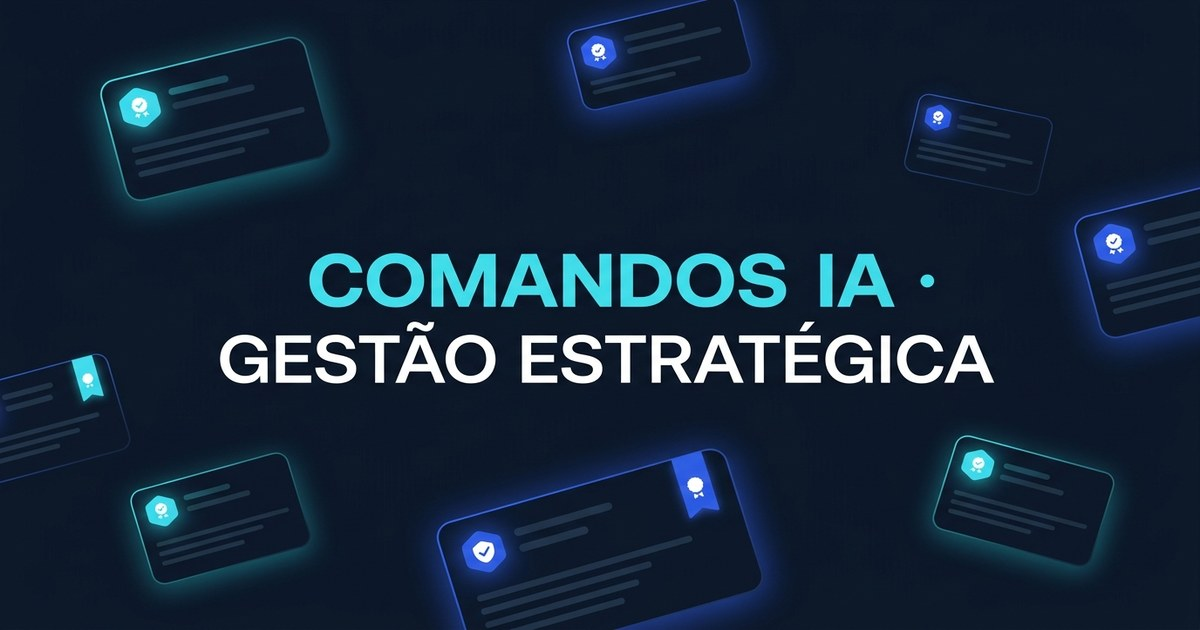
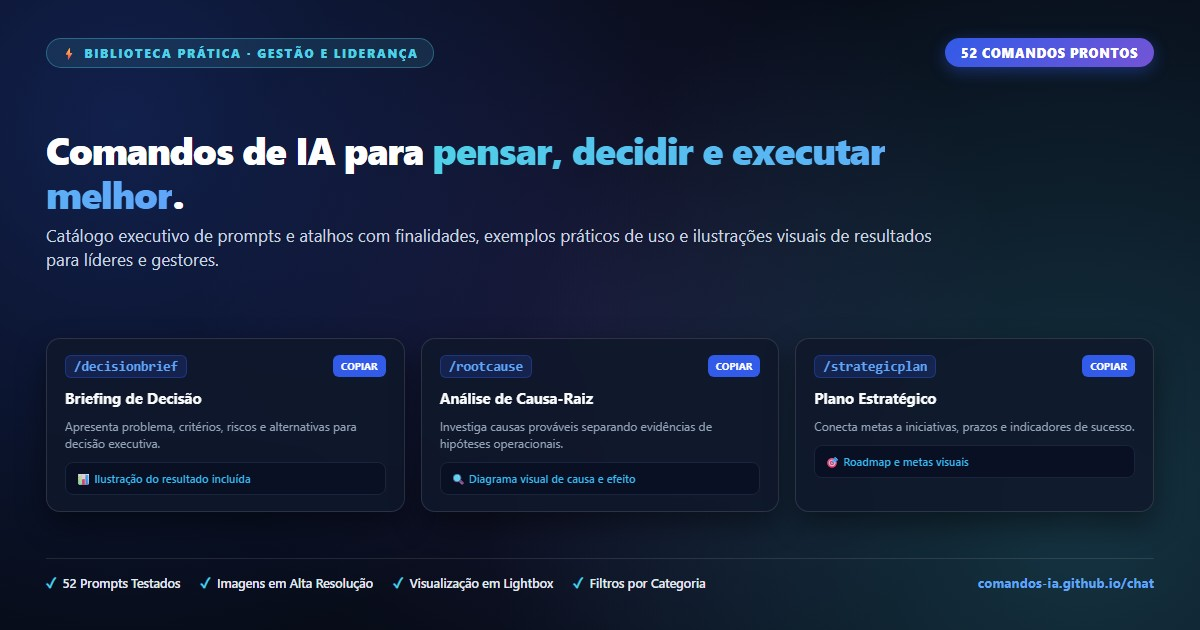
Corrige tags Open Graph com URL absoluta do GitHub Pages, remove botao da toolbar e gera novo card com amostra real dos comandos

diff --git a/index.html b/index.html
@@ -1,19 +1,20 @@
 <!doctype html>
-<html lang="pt-BR">
+<html lang="pt-BR" prefix="og: http://ogp.me/ns#">
 <head>
 <meta charset="utf-8">
 <meta name="viewport" content="width=device-width, initial-scale=1">
 <title>Biblioteca de Comandos de Gestão | Comandos IA</title>
-<meta name="description" content="Biblioteca prática de comandos de IA para líderes e gestores. Modelos prontos para análise, tomada de decisão, gestão de pessoas e execução estratégica.">
+<meta name="description" content="52 comandos práticos de IA para líderes e gestores. Modelos prontos para análise, tomada de decisão, gestão de pessoas e execução estratégica.">
 <meta name="theme-color" content="#101826">
 
 <!-- Open Graph / WhatsApp / Facebook / LinkedIn -->
 <meta property="og:type" content="website">
+<meta property="og:url" content="https://comandos-ia.github.io/chat/">
 <meta property="og:site_name" content="Biblioteca de Comandos de Gestão">
 <meta property="og:title" content="Biblioteca de Comandos de Gestão | Comandos IA">
-<meta property="og:description" content="Comandos práticos de IA para pensar, decidir e executar melhor. Exemplos reais, fluxos de decisão e modelos para liderança.">
-<meta property="og:image" content="imagens/og-preview.jpg">
-<meta property="og:image:secure_url" content="imagens/og-preview.jpg">
+<meta property="og:description" content="52 comandos práticos de IA para pensar, decidir e executar melhor. Exemplos reais, fluxos de decisão e modelos para liderança.">
+<meta property="og:image" content="https://comandos-ia.github.io/chat/imagens/og-preview.jpg">
+<meta property="og:image:secure_url" content="https://comandos-ia.github.io/chat/imagens/og-preview.jpg">
 <meta property="og:image:type" content="image/jpeg">
 <meta property="og:image:width" content="1200">
 <meta property="og:image:height" content="630">
@@ -22,16 +23,17 @@
 
 <!-- Twitter / X Cards -->
 <meta name="twitter:card" content="summary_large_image">
+<meta name="twitter:url" content="https://comandos-ia.github.io/chat/">
 <meta name="twitter:title" content="Biblioteca de Comandos de Gestão | Comandos IA">
-<meta name="twitter:description" content="Comandos práticos de IA para pensar, decidir e executar melhor. Exemplos reais, fluxos de decisão e modelos para liderança.">
-<meta name="twitter:image" content="imagens/og-preview.jpg">
-<link rel="image_src" href="imagens/og-preview.jpg">
+<meta name="twitter:description" content="52 comandos práticos de IA para pensar, decidir e executar melhor. Exemplos reais, fluxos de decisão e modelos para liderança.">
+<meta name="twitter:image" content="https://comandos-ia.github.io/chat/imagens/og-preview.jpg">
+<link rel="image_src" href="https://comandos-ia.github.io/chat/imagens/og-preview.jpg">
 <style>
 :root{--bg:#f4f6fa;--surface:#fff;--ink:#172033;--muted:#65718a;--line:#e2e7f0;--navy:#101826;--blue:#315be8;--cyan:#4fd1e8;--purple:#7454d6;--soft:#eef2ff;--shadow:0 8px 30px rgba(21,32,57,.06)}
 *{box-sizing:border-box}html{scroll-behavior:smooth}body{margin:0;background:var(--bg);color:var(--ink);font:15px/1.55 Inter,ui-sans-serif,system-ui,-apple-system,"Segoe UI",sans-serif}
 header{background:linear-gradient(120deg,#101826,#202d4b 70%,#30346a);color:#fff;padding:46px 22px 36px}
 .wrap{max-width:1180px;margin:auto}.eyebrow{text-transform:uppercase;letter-spacing:.16em;font-size:11px;font-weight:800;color:var(--cyan)}h1{font-size:clamp(30px,4vw,46px);line-height:1.08;letter-spacing:-.04em;margin:12px 0;max-width:760px}header p{max-width:700px;color:#d4dbea;margin:0;font-size:16px}.stats{display:flex;gap:12px;flex-wrap:wrap;margin-top:25px}.stat{border:1px solid #ffffff24;background:#ffffff0d;border-radius:12px;padding:10px 14px;min-width:130px}.stat strong{display:block;font-size:21px}.stat span{font-size:12px;color:#c8d1e4}
-main{max-width:1180px;margin:0 auto;padding:24px 22px 60px}.toolbar{display:grid;grid-template-columns:minmax(200px,1fr) 220px auto auto;gap:12px;position:sticky;top:0;z-index:5;background:var(--bg);padding:12px 0 16px}.field{width:100%;padding:12px 14px;border:1px solid var(--line);border-radius:11px;background:white;color:var(--ink);font:inherit;outline:none}.field:focus{border-color:var(--blue);box-shadow:0 0 0 3px #315be81c}.btn{border:0;border-radius:10px;padding:11px 15px;font:600 13px inherit;cursor:pointer;transition:.18s}.btn-primary{background:var(--blue);color:white}.btn-primary:hover{background:#2449cb}.btn-quiet{background:#edf0f7;color:#25304a}.btn-whatsapp{background:#128c7e;color:white;display:inline-flex;align-items:center;justify-content:center;gap:6px}.btn-whatsapp:hover{background:#075e54}.btn:focus-visible{outline:3px solid #4fd1e8;outline-offset:2px}
+main{max-width:1180px;margin:0 auto;padding:24px 22px 60px}.toolbar{display:grid;grid-template-columns:minmax(220px,1fr) 250px auto;gap:12px;position:sticky;top:0;z-index:5;background:var(--bg);padding:12px 0 16px}.field{width:100%;padding:12px 14px;border:1px solid var(--line);border-radius:11px;background:white;color:var(--ink);font:inherit;outline:none}.field:focus{border-color:var(--blue);box-shadow:0 0 0 3px #315be81c}.btn{border:0;border-radius:10px;padding:11px 15px;font:600 13px inherit;cursor:pointer;transition:.18s}.btn-primary{background:var(--blue);color:white}.btn-primary:hover{background:#2449cb}.btn-quiet{background:#edf0f7;color:#25304a}.btn:focus-visible{outline:3px solid #4fd1e8;outline-offset:2px}
 .category-nav{display:flex;gap:8px;flex-wrap:wrap;margin:2px 0 26px}.chip{border:1px solid var(--line);background:#fff;color:#4b5872;border-radius:999px;padding:8px 12px;font-size:12px;cursor:pointer}.chip.active,.chip:hover{background:var(--navy);color:white;border-color:var(--navy)}
 .section{margin:30px 0 38px;scroll-margin-top:100px}.section-head{display:flex;align-items:flex-end;justify-content:space-between;gap:18px;margin-bottom:15px}.section-head h2{font-size:23px;letter-spacing:-.025em;margin:0}.section-head p{color:var(--muted);margin:4px 0 0}.count{font-size:12px;color:var(--muted);white-space:nowrap}
 .grid{display:grid;grid-template-columns:repeat(3,minmax(0,1fr));gap:15px}.card{background:var(--surface);border:1px solid var(--line);border-radius:16px;overflow:hidden;box-shadow:var(--shadow);display:flex;flex-direction:column;min-width:0}.card-body{padding:17px 17px 14px;display:flex;flex-direction:column;gap:12px;flex:1}.cmdline{display:flex;align-items:flex-start;justify-content:space-between;gap:8px}.command{font:700 14px/1.35 ui-monospace,SFMono-Regular,Menlo,Consolas,monospace;color:#2e45a0;overflow-wrap:anywhere}.card h3{font-size:16px;line-height:1.25;margin:0;letter-spacing:-.01em}.label{font-size:10px;letter-spacing:.12em;text-transform:uppercase;color:#78839a;font-weight:800}.purpose,.example{margin:0;color:#4c5870;font-size:13px}.example-box{background:#f7f8fc;border:1px solid #e9edf5;border-radius:10px;padding:11px}.image-slot{margin:0 17px 17px;border:1.5px dashed #c7cede;border-radius:12px;background:linear-gradient(135deg,#fafbff,#f1f4fa);min-height:150px;display:flex;align-items:center;justify-content:center;text-align:center;padding:16px;position:relative;overflow:hidden;transition:all .2s ease}.image-slot img{width:100%;height:100%;max-height:220px;object-fit:contain;display:none}.image-slot.has-image{padding:0;border:1px solid #1e293b;background:#0b1120;cursor:zoom-in}.image-slot.has-image img{display:block;width:100%;height:auto;aspect-ratio:16/9;object-fit:cover;cursor:zoom-in;transition:transform .2s ease}.image-slot.has-image img:hover{transform:scale(1.02)}.image-slot.has-image::after{content:'🔍 Clique para ampliar';position:absolute;bottom:8px;right:8px;background:rgba(15,23,42,.82);backdrop-filter:blur(4px);color:#fff;font-size:11px;font-weight:600;padding:4px 9px;border-radius:6px;opacity:0;pointer-events:none;transition:opacity .2s ease,transform .2s ease;transform:translateY(4px)}.image-slot.has-image:hover::after{opacity:1;transform:translateY(0)}.image-slot.has-image .placeholder{display:none}.placeholder{max-width:230px;color:#7c879e;font-size:12px}.placeholder .icon{font-size:25px;display:block;color:#8b9ac2;margin-bottom:6px}.small-btn{font-size:11px;padding:8px 10px;border-radius:8px}.copy-status{font-size:11px;color:#15803d;align-self:center;min-height:16px}.empty{padding:38px;text-align:center;background:#fff;border:1px dashed var(--line);border-radius:14px;color:var(--muted);display:none}.note{margin-top:30px;padding:15px 17px;border-radius:12px;background:#fff;border:1px solid var(--line);font-size:12px;color:var(--muted)}footer{text-align:center;color:#8b94a7;font-size:12px;padding:25px}
@@ -76,11 +78,7 @@ main{max-width:1180px;margin:0 auto;padding:24px 22px 60px}.toolbar{display:grid
 <div class="toolbar">
 <input id="search" class="field" type="search" placeholder="Pesquisar comando, finalidade ou exemplo…" aria-label="Pesquisar comandos">
 <select id="categorySelect" class="field" aria-label="Filtrar por categoria"><option value="">Todas as categorias</option></select>
-<button id="shareBtn" class="btn btn-whatsapp" type="button" title="Compartilhar pelo WhatsApp">
-  <svg width="15" height="15" viewBox="0 0 24 24" fill="currentColor"><path d="M.057 24l1.687-6.163c-1.041-1.804-1.588-3.849-1.587-5.946.003-6.556 5.338-11.891 11.893-11.891 3.181.001 6.167 1.24 8.413 3.488 2.245 2.248 3.481 5.236 3.48 8.414-.003 6.557-5.338 11.892-11.893 11.892-1.99-.001-3.951-.5-5.688-1.448l-6.305 1.654zm6.597-3.807c1.676.995 3.276 1.591 5.392 1.592 5.448 0 9.886-4.434 9.889-9.885.002-5.462-4.415-9.89-9.881-9.892-5.452 0-9.887 4.434-9.889 9.884-.001 2.225.651 3.891 1.746 5.634l-.999 3.648 3.742-.981zm11.387-5.464c-.074-.124-.272-.198-.57-.347-.297-.149-1.758-.868-2.031-.967-.272-.099-.47-.149-.669.149-.198.297-.768.967-.941 1.165-.173.198-.347.223-.644.074-.297-.149-1.255-.462-2.39-1.475-.883-.788-1.48-1.761-1.653-2.059-.173-.297-.018-.458.13-.606.134-.133.297-.347.446-.521.151-.172.2-.296.3-.495.099-.198.05-.372-.025-.521-.075-.148-.669-1.611-.916-2.206-.242-.579-.487-.501-.669-.51l-.57-.01c-.198 0-.52.074-.792.372s-1.04 1.016-1.04 2.479 1.065 2.876 1.213 3.074c.149.198 2.095 3.2 5.076 4.487.709.306 1.263.489 1.694.626.712.226 1.36.194 1.872.118.571-.085 1.758-.719 2.006-1.413.248-.695.248-1.29.173-1.414z"/></svg>
-  WhatsApp
-</button>
-<button id="printBtn" class="btn btn-quiet" type="button">Imprimir / PDF</button>
+<button id="printBtn" class="btn btn-quiet" type="button">Imprimir / salvar PDF</button>
 </div>
 <nav id="categoryNav" class="category-nav" aria-label="Categorias"></nav>
 <div id="catalog"></div>
@@ -359,22 +357,6 @@ function render(){
 }
 search.addEventListener('input',render);categorySelect.addEventListener('change',render);
 document.getElementById('printBtn').addEventListener('click',()=>window.print());
-const shareBtn=document.getElementById('shareBtn');
-if(shareBtn){
-  shareBtn.addEventListener('click',async()=>{
-    const shareTitle='Biblioteca de Comandos de Gestão | Comandos IA';
-    const shareText='💡 Confira a Biblioteca de Comandos de Gestão com IA: modelos práticos para pensar, decidir e liderar melhor.';
-    const shareUrl=window.location.href;
-    if(navigator.share){
-      try{
-        await navigator.share({title:shareTitle,text:shareText,url:shareUrl});
-      }catch(e){}
-    }else{
-      const waUrl='https://api.whatsapp.com/send?text='+encodeURIComponent(shareText+'\n\n'+shareUrl);
-      window.open(waUrl,'_blank');
-    }
-  });
-}
 render();
 </script>
 </body></html>

diff --git a/gerar_og_image.py b/gerar_og_image.py
@@ -1,0 +1,274 @@
+import os
+import subprocess
+from PIL import Image
+
+EDGE_PATH = r"C:\Program Files (x86)\Microsoft\Edge\Application\msedge.exe"
+OUT_JPG = os.path.abspath("imagens/og-preview.jpg")
+TEMP_HTML = os.path.abspath("temp_og.html")
+TEMP_PNG = os.path.abspath("temp_og.png")
+
+HTML_BANNER = """<!DOCTYPE html>
+<html lang="pt-BR">
+<head>
+<meta charset="utf-8">
+<style>
+* { box-sizing: border-box; margin: 0; padding: 0; font-family: -apple-system, BlinkMacSystemFont, 'Segoe UI', Roboto, 'Helvetica Neue', sans-serif; }
+body {
+    width: 1200px;
+    height: 630px;
+    overflow: hidden;
+    background: #070c18;
+    background-image: 
+        radial-gradient(circle at 10% 20%, rgba(49, 91, 232, 0.25) 0%, transparent 45%),
+        radial-gradient(circle at 90% 80%, rgba(79, 209, 232, 0.2) 0%, transparent 50%),
+        radial-gradient(circle at 50% 50%, rgba(116, 84, 214, 0.15) 0%, transparent 60%);
+    color: #f1f5f9;
+    padding: 38px 46px;
+    display: flex;
+    flex-direction: column;
+    justify-content: space-between;
+    -webkit-font-smoothing: antialiased;
+}
+
+/* Header do Banner */
+.banner-head {
+    display: flex;
+    justify-content: space-between;
+    align-items: flex-start;
+}
+.brand-badge {
+    display: inline-flex;
+    align-items: center;
+    gap: 8px;
+    background: rgba(79, 209, 232, 0.12);
+    border: 1px solid rgba(79, 209, 232, 0.35);
+    color: #4fd1e8;
+    padding: 6px 14px;
+    border-radius: 999px;
+    font-size: 12px;
+    font-weight: 800;
+    text-transform: uppercase;
+    letter-spacing: 0.14em;
+}
+.pill-count {
+    background: linear-gradient(135deg, #315be8, #7454d6);
+    color: white;
+    padding: 6px 16px;
+    border-radius: 999px;
+    font-size: 13px;
+    font-weight: 800;
+    letter-spacing: 0.05em;
+    box-shadow: 0 4px 16px rgba(49, 91, 232, 0.4);
+}
+
+.hero-title {
+    margin-top: 14px;
+    max-width: 900px;
+}
+.hero-title h1 {
+    font-size: 38px;
+    font-weight: 850;
+    line-height: 1.15;
+    letter-spacing: -0.03em;
+    color: #ffffff;
+}
+.hero-title h1 span {
+    background: linear-gradient(90deg, #4fd1e8, #60a5fa);
+    -webkit-background-clip: text;
+    -webkit-text-fill-color: transparent;
+}
+.hero-title p {
+    font-size: 17px;
+    color: #cbd5e1;
+    margin-top: 8px;
+    line-height: 1.4;
+    font-weight: 400;
+}
+
+/* Grid com Amostra dos Comandos Reais */
+.cards-showcase {
+    display: grid;
+    grid-template-columns: repeat(3, 1fr);
+    gap: 16px;
+    margin-top: 20px;
+}
+.sample-card {
+    background: rgba(15, 23, 42, 0.85);
+    border: 1px solid rgba(255, 255, 255, 0.12);
+    border-radius: 14px;
+    padding: 16px 18px;
+    display: flex;
+    flex-direction: column;
+    gap: 10px;
+    box-shadow: 0 12px 30px rgba(0, 0, 0, 0.45);
+    backdrop-filter: blur(8px);
+}
+.cmd-bar {
+    display: flex;
+    justify-content: space-between;
+    align-items: center;
+}
+.cmd-name {
+    font-family: ui-monospace, SFMono-Regular, Menlo, Monaco, Consolas, monospace;
+    font-size: 13.5px;
+    font-weight: 800;
+    color: #60a5fa;
+    background: rgba(49, 91, 232, 0.18);
+    padding: 3px 8px;
+    border-radius: 6px;
+    border: 1px solid rgba(49, 91, 232, 0.35);
+}
+.copy-badge {
+    background: #315be8;
+    color: white;
+    font-size: 10px;
+    font-weight: 700;
+    padding: 4px 8px;
+    border-radius: 6px;
+}
+.card-title {
+    font-size: 15px;
+    font-weight: 700;
+    color: #f8fafc;
+}
+.card-desc {
+    font-size: 12px;
+    color: #94a3b8;
+    line-height: 1.4;
+}
+.mini-preview {
+    background: #091024;
+    border: 1px solid #1a253d;
+    border-radius: 8px;
+    padding: 8px 10px;
+    font-size: 11px;
+    color: #38bdf8;
+    display: flex;
+    align-items: center;
+    gap: 6px;
+    font-weight: 600;
+}
+
+/* Rodapé do Banner */
+.banner-footer {
+    display: flex;
+    justify-content: space-between;
+    align-items: center;
+    border-top: 1px solid rgba(255, 255, 255, 0.1);
+    padding-top: 14px;
+    font-size: 12.5px;
+    color: #94a3b8;
+}
+.features-list {
+    display: flex;
+    gap: 20px;
+}
+.feat-item {
+    display: flex;
+    align-items: center;
+    gap: 6px;
+    color: #e2e8f0;
+    font-weight: 600;
+}
+.feat-icon {
+    color: #4fd1e8;
+    font-size: 14px;
+}
+.site-url {
+    color: #60a5fa;
+    font-weight: 700;
+    letter-spacing: 0.04em;
+}
+</style>
+</head>
+<body>
+
+  <div class="banner-head">
+    <div class="brand-badge">⚡ BIBLIOTECA PRÁTICA · GESTÃO E LIDERANÇA</div>
+    <div class="pill-count">52 COMANDOS PRONTOS</div>
+  </div>
+
+  <div class="hero-title">
+    <h1>Comandos de IA para <span>pensar, decidir e executar melhor</span>.</h1>
+    <p>Catálogo executivo de prompts e atalhos com finalidades, exemplos práticos de uso e ilustrações visuais de resultados para líderes e gestores.</p>
+  </div>
+
+  <div class="cards-showcase">
+    <!-- Card 1 -->
+    <div class="sample-card">
+      <div class="cmd-bar">
+        <span class="cmd-name">/decisionbrief</span>
+        <span class="copy-badge">COPIAR</span>
+      </div>
+      <div class="card-title">Briefing de Decisão</div>
+      <div class="card-desc">Apresenta problema, critérios, riscos e alternativas para decisão executiva.</div>
+      <div class="mini-preview">📊 Ilustração do resultado incluída</div>
+    </div>
+
+    <!-- Card 2 -->
+    <div class="sample-card">
+      <div class="cmd-bar">
+        <span class="cmd-name">/rootcause</span>
+        <span class="copy-badge">COPIAR</span>
+      </div>
+      <div class="card-title">Análise de Causa-Raiz</div>
+      <div class="card-desc">Investiga causas prováveis separando evidências de hipóteses operacionais.</div>
+      <div class="mini-preview">🔍 Diagrama visual de causa e efeito</div>
+    </div>
+
+    <!-- Card 3 -->
+    <div class="sample-card">
+      <div class="cmd-bar">
+        <span class="cmd-name">/strategicplan</span>
+        <span class="copy-badge">COPIAR</span>
+      </div>
+      <div class="card-title">Plano Estratégico</div>
+      <div class="card-desc">Conecta metas a iniciativas, prazos e indicadores de sucesso.</div>
+      <div class="mini-preview">🎯 Roadmap e metas visuais</div>
+    </div>
+  </div>
+
+  <div class="banner-footer">
+    <div class="features-list">
+      <div class="feat-item"><span class="feat-icon">✓</span> 52 Prompts Testados</div>
+      <div class="feat-item"><span class="feat-icon">✓</span> Imagens em Alta Resolução</div>
+      <div class="feat-item"><span class="feat-icon">✓</span> Visualização em Lightbox</div>
+      <div class="feat-item"><span class="feat-icon">✓</span> Filtros por Categoria</div>
+    </div>
+    <div class="site-url">comandos-ia.github.io/chat</div>
+  </div>
+
+</body>
+</html>
+"""
+
+def generate():
+    with open(TEMP_HTML, "w", encoding="utf-8") as f:
+        f.write(HTML_BANNER)
+
+    file_url = "file:///" + TEMP_HTML.replace("\\", "/")
+    cmd = [
+        EDGE_PATH,
+        "--headless",
+        "--disable-gpu",
+        "--hide-scrollbars",
+        "--window-size=1200,630",
+        f"--screenshot={TEMP_PNG}",
+        file_url
+    ]
+    subprocess.run(cmd, check=True)
+    
+    if os.path.exists(TEMP_PNG):
+        img = Image.open(TEMP_PNG).convert("RGB")
+        img = img.resize((1200, 630), Image.Resampling.LANCZOS)
+        # WhatsApp recomenda imagem < 300KB
+        img.save(OUT_JPG, "JPEG", quality=90, optimize=True)
+        os.remove(TEMP_PNG)
+        print("Novo og-preview.jpg gerado com sucesso!")
+        print("Tamanho do arquivo:", os.path.getsize(OUT_JPG), "bytes")
+
+    if os.path.exists(TEMP_HTML):
+        os.remove(TEMP_HTML)
+
+if __name__ == "__main__":
+    generate()

diff --git a/README.md b/README.md
@@ -1,26 +1,21 @@
 # Biblioteca de Comandos de Gestão (Comandos IA)
 
-Catálogo prático de atalhos e comandos de IA para líderes e gestores pensarem, decidirem e executarem melhor.
+Catálogo prático de 52 atalhos e comandos de IA para líderes e gestores pensarem, decidirem e executarem melhor.
 
 ---
 
-## 📱 Compartilhamento no WhatsApp e Redes Sociais (Open Graph)
+## 📱 Compartilhamento no WhatsApp e Redes Sociais (Link Preview)
 
-A identidade visual e as meta tags para pré-visualização no WhatsApp, LinkedIn, Facebook e Twitter/X foram configuradas no arquivo `index.html`.
+### Como funciona o balão com foto no WhatsApp:
+Quando você cola o link `https://comandos-ia.github.io/chat/` em qualquer conversa do WhatsApp:
+1. O WhatsApp consulta os servidores e lê as tags Open Graph configuradas no `<head>`.
+2. Em 1 a 2 segundos, ele carrega automaticamente:
+   - **Imagem do Card (1200x630):** Mostra os 3 cartões de comandos em destaque (`/decisionbrief`, `/rootcause`, `/strategicplan`), o título e o total de 52 comandos.
+   - **Título:** `Biblioteca de Comandos de Gestão | Comandos IA`
+   - **Descrição:** `52 comandos práticos de IA para pensar, decidir e executar melhor. Exemplos reais, fluxos de decisão e modelos para liderança.`
 
-### O que foi configurado:
-- **Imagem de destaque (Card 1200x630 px):** Arquivo `imagens/og-preview.jpg` gerado e otimizado com estética executiva (fundo escuro navy `#101826`, acentos em ciano `#4fd1e8` e azul `#315be8`, cartões conceituais flutuando e título nítido).
-- **Título:** `Biblioteca de Comandos de Gestão | Comandos IA`
-- **Descrição:** `Comandos práticos de IA para pensar, decidir e executar melhor. Exemplos reais, fluxos de decisão e modelos para liderança.`
-- **Botão na barra superior:** Botão **WhatsApp** que aciona o compartilhamento nativo no celular ou abre o WhatsApp com a mensagem e o link no computador.
-
----
-
-## ⚠ Dica Importante sobre o WhatsApp:
-O WhatsApp busca a imagem e os textos diretamente do link na internet através de robôs (crawlers).
-1. Quando o site estiver publicado (no GitHub Pages, Vercel, Netlify ou servidor próprio), certifique-se de que o link comece com `https://`.
-2. Se desejar fixar a URL absoluta da imagem no `index.html`, basta trocar `imagens/og-preview.jpg` por `https://seusite.com/imagens/og-preview.jpg`.
-3. Para testar o preview antes de enviar para outras pessoas, você pode colar o link no seu próprio chat ("Mensagens para mim") no WhatsApp ou usar ferramentas como:
-   - [Facebook Sharing Debugger](https://developers.facebook.com/tools/debug/)
-   - [Twitter Card Validator](https://cards-dev.twitter.com/validator)
-   - [OpenGraph.xyz](https://www.opengraph.xyz/)
+> [!IMPORTANT]
+> **Atenção ao colar no WhatsApp:**
+> - Digite ou cole o link completo com HTTPS: `https://comandos-ia.github.io/chat/`
+> - **Aguarde 2 a 3 segundos** antes de apertar "Enviar", para que o WhatsApp tenha tempo de carregar a miniatura e o texto na caixa de mensagem.
+> - Se o seu site estiver hospedado em outro domínio (ex: seu próprio domínio `.com.br`), basta atualizar a URL nas tags `<meta property="og:url">` e `<meta property="og:image">` no arquivo `index.html`.
